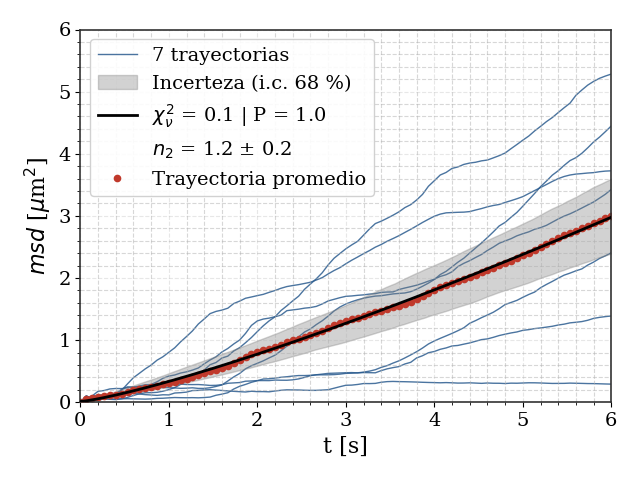
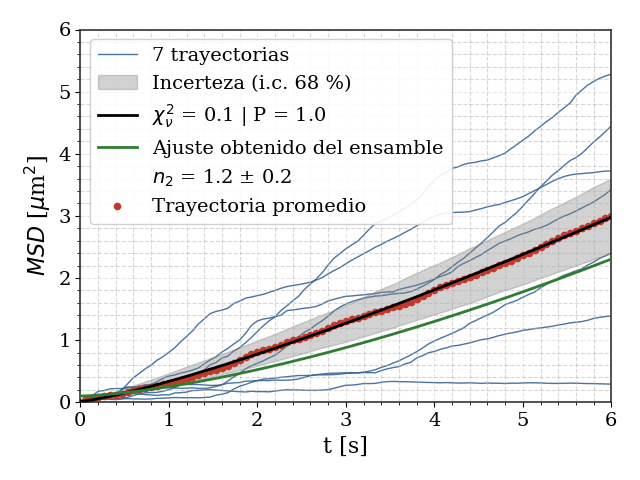
mejore graficos para la presentacion e informe

diff --git a/practica3/clase4/MSD_pedrop.py b/practica3/clase4/MSD_pedrop.py
@@ -593,7 +593,7 @@ ax_b.plot(t_fit_b, modelo(t_fit_b, *popt), "k-", lw=2,
          # (f"Ajuste: $A t^n + (v t)^2 + C $, A = {A_fit:.2f} ± {stats_boot[0][2]:.2f} , \n"
          #        f"n = {n_fit:.2f} ± {stats_boot[1][2]:.2f} , v = {abs(v_fit):.2f} ± {stats_boot[2][2]:.2f}" + txt_C))
 ax_b.plot([],[]," ", label=r"$n_2$ "f"= {n_fit:.1f} ± {stats_boot[1][2]:.1f}")
-ax_b.set_ylabel(r"$msd$ [$\mu$m$^2$]")
+ax_b.set_ylabel(r"$MSD$ [$\mu$m$^2$]")
 if loglog:
     ax_b.set_xscale("log")
     ax_b.set_yscale("log")
@@ -618,19 +618,22 @@ fig_b.tight_layout()
 fig_b.savefig("msd_ensamble_bootstrap_ergo_presentacion.png")
 fig_b.show()
 #%%
+curva_ens = modelo(t_fit_b, *[0.15,1.5,0.00,0.1])
 fig_b, ax_b = plt.subplots()
 for k in range(len(archivos)):
     ax_b.plot(t_plot, MSD_plot[k], color="C0", linewidth=1, alpha=0.85,
               label="7 trayectorias" if k == 0 else None, zorder=1)
 ax_b.errorbar(t_plot, msd_prom_plot, fmt=".",color="C1", linewidth=2.5, label="Trayectoria promedio", zorder=2)
 ax_b.fill_between(t_fit_b, banda_lo, banda_hi, color="gray", alpha=0.35, label="Incerteza (i.c. 68 %)")
-ax_b.plot(t_fit_b, modelo(t_fit_b, *popt), "k-", lw=2,
-          label=r"$\chi^2_{\nu}$ = "f"{chi2_r:.1f} | P = {p_val:.1f}", zorder=3)
+ax_b.plot(t_fit_b, modelo(t_fit_b, *popt), "k-", lw=3, zorder=3, label="Ajuste de la partícula")#,
+          #label=r"$\chi^2_{\nu}$ = "f"{chi2_r:.1f} | P = {p_val:.1f}", zorder=3)
          # (f"Ajuste: $A t^n + (v t)^2 + C $, A = {A_fit:.2f} ± {stats_boot[0][2]:.2f} , \n"
          #        f"n = {n_fit:.2f} ± {stats_boot[1][2]:.2f} , v = {abs(v_fit):.2f} ± {stats_boot[2][2]:.2f}" + txt_C))
-ax_b.plot([],[]," ", label=r"$n_2$ "f"= {n_fit:.1f} ± {stats_boot[1][2]:.1f}")
+ax_b.plot(t_fit_b, curva_ens, c="C4", lw=3,
+          label="Ajuste obtenido del ensamble", zorder=3)
+#ax_b.plot([],[]," ", label=r"$n_2$ "f"= {n_fit:.1f} ± {stats_boot[1][2]:.1f}")
 ax_b.set_xlabel("t [s]")
-ax_b.set_ylabel(r"$msd$ [$\mu$m$^2$]")
+ax_b.set_ylabel(r"$MSD$ [$\mu$m$^2$]")
 if loglog:
     ax_b.set_xscale("log")
     ax_b.set_yscale("log")
@@ -640,7 +643,7 @@ else:
 ax_b.grid(alpha=0.3)
 ax_b.legend()
 fig_b.tight_layout()
-fig_b.savefig("msd_ensamble_bootstrap_ergo_informe.png")
+fig_b.savefig("msd_ensamble_bootstrap_ergo_presentacion_def.png")
 fig_b.show()
 print(f"Ajuste: $A t^n + (v t)^2 + C $, A = {A_fit:.2f} ± {stats_boot[0][2]:.2f} , \n"
       f"n = {n_fit:.2f} ± {stats_boot[1][2]:.2f} , v = {abs(v_fit):.2f} ± {stats_boot[2][2]:.2f}" + txt_C)

diff --git a/practica3/clase4/MSD.py b/practica3/clase4/MSD.py
@@ -591,7 +591,7 @@ ax_b.plot(t_fit_b, modelo(t_fit_b, *popt), "k-", lw=2,
          # (f"Ajuste: $A t^n + (v t)^2 + C $, A = {A_fit:.2f} ± {stats_boot[0][2]:.2f} , \n"
          #        f"n = {n_fit:.2f} ± {stats_boot[1][2]:.2f} , v = {abs(v_fit):.2f} ± {stats_boot[2][2]:.2f}" + txt_C))
 ax_b.plot([],[]," ", label=r"$n_1$ "f"= {n_fit:.1f} ± {stats_boot[1][2]:.1f}")
-ax_b.set_ylabel(r"$msd$ [$\mu$m$^2$]")
+ax_b.set_ylabel(r"$MSD$ [$\mu$m$^2$]")
 if loglog:
     ax_b.set_xscale("log")
     ax_b.set_yscale("log")
@@ -622,13 +622,13 @@ for k in range(len(archivos)):
               label="14 trayectorias" if k == 0 else None, zorder=1)
 ax_b.errorbar(t_plot, msd_prom_plot, fmt=".",color="C1", linewidth=2.5, label="Trayectoria promedio", zorder=2)
 ax_b.fill_between(t_fit_b, banda_lo, banda_hi, color="gray", alpha=0.35, label="Incerteza (i.c. 68 %)")
-ax_b.plot(t_fit_b, modelo(t_fit_b, *popt), "k-", lw=2,
-          label=r"$\chi^2_{\nu}$ = "f"{chi2_r:.1f} | P = {p_val:.1f}", zorder=3)
+ax_b.plot(t_fit_b, modelo(t_fit_b, *popt), "k-", lw=3,zorder=3, label="Ajuste del ensamble")
+#          label=r"$\chi^2_{\nu}$ = "f"{chi2_r:.1f} | P = {p_val:.1f}", zorder=3)
          # (f"Ajuste: $A t^n + (v t)^2 + C $, A = {A_fit:.2f} ± {stats_boot[0][2]:.2f} , \n"
          #        f"n = {n_fit:.2f} ± {stats_boot[1][2]:.2f} , v = {abs(v_fit):.2f} ± {stats_boot[2][2]:.2f}" + txt_C))
-ax_b.plot([],[]," ", label=r"$n_1$ "f"= {n_fit:.1f} ± {stats_boot[1][2]:.1f}")
+#ax_b.plot([],[]," ", label=r"$n_1$ "f"= {n_fit:.1f} ± {stats_boot[1][2]:.1f}")
 ax_b.set_xlabel("t [s]")
-ax_b.set_ylabel(r"$msd$ [$\mu$m$^2$]")
+ax_b.set_ylabel(r"$MSD$ [$\mu$m$^2$]")
 if loglog:
     ax_b.set_xscale("log")
     ax_b.set_yscale("log")
